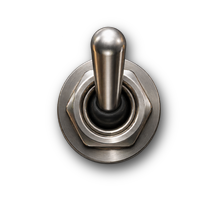
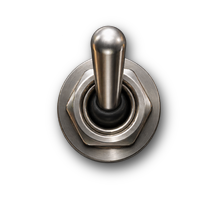
Nouveaux potards et inverseur corrige
- potards remplaces par l'image fournie, a la taille des anciens (colle aux ombres), repere arrondi
- inverseur : ecrou, rondelle et bague grise fixes entre ON et OFF, seul le levier bascule ; levier bas entier

Claude-Session: https://claude.ai/code/session_01M5BvnJhAUMcJZBMRQuvEEY

diff --git a/tools/design_assets.py b/tools/design_assets.py
@@ -101,36 +101,9 @@ m |= box(1694, 412, 1741, 439)                 # « ON »
 m |= box(1692, 598, 1750, 624)                 # « OFF »
 out = donor_fill(out, m, 652, 684)
 
-# ---- 3. repere des potards (et son sillon) retire : le chapeau en metal tourne (rayures concentriques, reflets qui ne
-#         varient que doucement avec l'angle) est refait en coordonnees polaires, par interpolation en angle a rayon constant
+# ---- 3. potards : ceux de la maquette sont remplaces par assets/design/knob_src.png (etape 6d) ; la plaque est refaite dessous (6c)
 KN = [(331.5, 531), (547.2, 531), (760.7, 531), (974.5, 531), (1187.7, 531), (1402.4, 531)]
 yy, xx = np.mgrid[0:H, 0:W].astype(np.float32)
-for cx, cy in KN:
-    mask = nd.binary_dilation(box(cx - 13, 461, cx + 13, 510), iterations=2)
-    NR, NT = int(68 * k), 1440
-    rr_ = np.linspace(0, 68 * k, NR)[:, None]; tt = np.linspace(-np.pi, np.pi, NT, endpoint=False)[None, :]
-    px_ = cx * k + rr_ * np.sin(tt); py_ = cy * k - rr_ * np.cos(tt)          # theta = 0 en haut
-    pol = np.stack([nd.map_coordinates(out[..., c], [py_, px_], order=1) for c in range(3)], -1)
-    pm = nd.map_coordinates(mask.astype(np.float32), [py_, px_], order=1) > 0.01
-    tix = np.arange(NT)
-    for r in range(NR):
-        m = pm[r]
-        if not m.any() or m.all(): continue
-        good = ~m
-        # interpolation circulaire en angle
-        gx = np.concatenate([tix[good] - NT, tix[good], tix[good] + NT])
-        for c in range(3):
-            gv = np.tile(pol[r, good, c], 3)
-            pol[r, m, c] = np.interp(tix[m], gx, gv)
-    # retour en cartesien pour les pixels du masque
-    ys_, xs_ = np.nonzero(mask)
-    dx_, dy_ = xs_ - cx * k, ys_ - cy * k
-    r_ = np.hypot(dx_, dy_) / (68 * k) * (NR - 1)
-    t_ = (np.arctan2(dx_, -dy_) + np.pi) / (2 * np.pi) * NT
-    inside = r_ < NR - 1
-    for c in range(3):
-        v = nd.map_coordinates(np.concatenate([pol[..., c], pol[:, :1, c]], 1), [r_, t_], order=1, mode="nearest")
-        out[ys_[inside], xs_[inside], c] = v[inside]
 
 # ---- 4. vu-metres : barres eteintes (verre sombre), debord orange retire, voyants d'ecretage eteints
 for x0, x1, win in ((66, 87, (46, 306, 137, 745)), (1916, 1937, (1861, 306, 1952, 745))):
@@ -228,23 +201,25 @@ RR(140, 110, 1695, 305, 14)
 for xb in (1707, 1791, 1874): RR(xb, 165, xb + 76, 241, 8)
 CC(1913, 75, 39)
 RR(46, 306, 137, 745, 12); RR(1861, 306, 1952, 745, 12)
-for cxk in (336, 549, 761, 974, 1187, 1401): CC(cxk, 535, 76)
 CC(1618.4, 531.0, 17)
 RR(1546, 340, 1556, 715, 3)
 fgm = np.asarray(fgi) > 0
 panel = inner & ~fgm
+knobz = np.zeros((H, W), bool)
+for cx_, cy_ in KN: knobz |= np.hypot(xx / k - cx_, yy / k - cy_) < 82     # anciens potards + ombres (les points restent hors zone)
 Lc = out.mean(2)
 T = np.asarray(Image.open(os.path.join(DESIGN, "plate_texture.png")).convert("RGB").resize((W, W), Image.LANCZOS), dtype=np.float32)[:H] / 255.0
 so_ = (out.max(2) - out.min(2)) / np.maximum(out.max(2), 1e-3)
 tophat = Lc - nd.grey_opening(Lc, size=(31, 31))
 zone = box(140, 325, 1850, 665)
-txt = nd.binary_dilation(panel & zone & (tophat > 0.18) & (Lc > 0.35) & (so_ < 0.2), iterations=3) & panel
-base_ = panel & ~txt
+txt = nd.binary_dilation(panel & zone & (tophat > 0.18) & (Lc > 0.35) & (so_ < 0.2), iterations=3) & panel & ~knobz
+base_ = panel & ~txt & ~knobz
 def nblur(v, m, s_):
     return nd.gaussian_filter(v * m, s_) / np.maximum(nd.gaussian_filter(m.astype(np.float32), s_), 1e-4)
 Ls = nblur(Lc, base_, 6.0)
 Mloc = nblur(Lc, base_, 60.0)
 S = np.clip(Ls / np.maximum(Mloc, 1e-3), 0.3, 1.0)          # ombres de contact seulement (aucun ancien reflet)
+S = np.where(knobz, 1.0, S)                                  # sous les anciens potards : texture seule
 newp = np.clip(T * S[..., None], 0, 1)
 oldp = np.stack([nblur(out[..., c], base_, 3.0) for c in range(3)], -1)
 ink = np.array([0.86, 0.86, 0.85], np.float32)
@@ -268,6 +243,51 @@ Z = case & ~panel & (dpan <= 40) & ~btn
 pz = np.exp(-((Lc - Mg) / 0.07) ** 2) * np.clip((0.25 - so_) / 0.15, 0, 1) * np.clip((40 - dpan) / 15, 0, 1)
 pz = nd.gaussian_filter(pz, 2.0) * Z
 out = out * (1 - pz[..., None]) + np.clip(out * gain_[..., None], 0, 1) * pz[..., None]
+
+# ---- 6d. nouveaux potards (image fournie, fond transparent) : repere retire (le plugin le dessine et le fait tourner),
+#          rayon 67 unites, ombre portee (lumiere en haut a gauche) et ombre de contact
+KSRC = Image.open(os.path.join(DESIGN, "knob_src.png")).convert("RGBA")
+ka = np.asarray(KSRC, dtype=np.float32) / 255.0
+KC = (437.0, 417.0); KR = 346.0
+krgb = ka[..., :3].copy(); kal = ka[..., 3].copy()
+kyy, kxx = np.mgrid[0:ka.shape[0], 0:ka.shape[1]].astype(np.float32)
+kal = np.where(np.hypot(kxx - KC[0], kyy - KC[1]) < KR - 6, 1.0, kal)
+# repere retire : interpolation en angle a rayon constant (metal tourne)
+kmask = nd.binary_dilation((np.abs(kxx - KC[0]) < 17) & (kyy > 80) & (kyy < 290), iterations=3)
+NR, NT = int(KR + 4), 1440
+rr_ = np.linspace(0, KR + 4, NR)[:, None]; tt = np.linspace(-np.pi, np.pi, NT, endpoint=False)[None, :]
+px_ = KC[0] + rr_ * np.sin(tt); py_ = KC[1] - rr_ * np.cos(tt)
+pol = np.stack([nd.map_coordinates(krgb[..., c], [py_, px_], order=1) for c in range(3)], -1)
+pm = nd.map_coordinates(kmask.astype(np.float32), [py_, px_], order=1) > 0.01
+tix = np.arange(NT)
+for r in range(NR):
+    m_ = pm[r]
+    if not m_.any() or m_.all(): continue
+    g_ = ~m_; gx = np.concatenate([tix[g_] - NT, tix[g_], tix[g_] + NT])
+    for c in range(3): pol[r, m_, c] = np.interp(tix[m_], gx, np.tile(pol[r, g_, c], 3))
+ys_, xs_ = np.nonzero(kmask)
+r_ = np.hypot(xs_ - KC[0], ys_ - KC[1]) / (KR + 4) * (NR - 1); t_ = (np.arctan2(xs_ - KC[0], -(ys_ - KC[1])) + np.pi) / (2 * np.pi) * NT
+ok_ = r_ < NR - 1
+for c in range(3):
+    v_ = nd.map_coordinates(np.concatenate([pol[..., c], pol[:, :1, c]], 1), [r_, t_], order=1, mode="nearest")
+    krgb[ys_[ok_], xs_[ok_], c] = v_[ok_]
+KNOB_R = 76.0                          # rayon des anciens potards (bague moletee) : colle aux ombres et aux graduations
+sc_ = KNOB_R * k / KR
+kimg = Image.fromarray((np.dstack([krgb, kal]) * 255 + 0.5).astype(np.uint8), "RGBA")
+kimg = kimg.resize((int(round(kimg.size[0] * sc_)), int(round(kimg.size[1] * sc_))), Image.LANCZOS)
+kk = np.asarray(kimg, dtype=np.float32) / 255.0
+kh, kw = kk.shape[:2]
+for cx_, cy_ in KN:
+    x0_ = int(round(cx_ * k - KC[0] * sc_)); y0_ = int(round(cy_ * k - KC[1] * sc_))
+    pad = int(20 * k)
+    A_ = np.zeros((kh + 2 * pad, kw + 2 * pad), np.float32); A_[pad:pad + kh, pad:pad + kw] = kk[..., 3]
+    shadow = nd.shift(nd.gaussian_filter(A_, 6 * k), (6 * k, 3.5 * k), order=1) * 0.70
+    contact = nd.gaussian_filter(A_, 1.8 * k) * 0.45
+    sh_ = np.clip(np.maximum(shadow, contact), 0, 1)
+    reg = out[y0_ - pad:y0_ + kh + pad, x0_ - pad:x0_ + kw + pad]
+    reg *= (1 - sh_[..., None])
+    a3 = kk[..., 3:4]
+    reg[pad:pad + kh, pad:pad + kw] = reg[pad:pad + kh, pad:pad + kw] * (1 - a3) + kk[..., :3] * a3
 
 # ---- 7. logos officiels en blanc
 def svg_alpha(name, h_px):
@@ -309,7 +329,7 @@ sz = (int(round((LEDB[2] - LEDB[0]) * PX)), int(round((LEDB[3] - LEDB[1]) * PX))
 Image.fromarray((rgba * 255 + 0.5).astype(np.uint8), "RGBA").resize(sz, Image.LANCZOS).save(os.path.join(ASSETS, "led_on.png"))
 
 # inverseur : images fournies (fond transparent), rondelle (rayon 665 px) mise au rayon 46 de la maquette, ombre portee
-def toggle(src, washer_c, out_name):
+def toggle_canvas(src, washer_c):
     t = Image.open(os.path.join(DESIGN, src)).convert("RGBA")
     sc = 40.5 * PX / 665.0                    # 25 % plus petit
     t = t.resize((int(t.size[0] * sc), int(t.size[1] * sc)), Image.LANCZOS)
@@ -317,13 +337,143 @@ def toggle(src, washer_c, out_name):
     S_ = int(round(170 * PX))                      # carre de 170 unites de maquette autour de l axe (levier entier)
     canvas = Image.new("RGBA", (S_, S_), (0, 0, 0, 0))
     canvas.alpha_composite(t, (int(round(S_ / 2 - cx)), int(round(S_ / 2 - cy))))
-    a_ = np.asarray(canvas, dtype=np.float32) / 255.0
+    return np.asarray(canvas, dtype=np.float32) / 255.0, sc
+def toggle_save(a_, out_name):
+    # ombre portee calculee sur l'image finale : la rondelle et l'ecrou donnent la meme ombre dans les deux positions,
+    # seule l'ombre du levier suit le levier
     sh = nd.shift(nd.gaussian_filter(a_[..., 3], 4.5 * PX), (4.5 * PX, 2.5 * PX), order=1) * 0.75
     al = a_[..., 3] + sh * (1 - a_[..., 3])
     rgb = a_[..., :3] * a_[..., 3:4] / np.maximum(al[..., None], 1e-4)
     Image.fromarray((np.dstack([rgb, al]) * 255 + 0.5).astype(np.uint8), "RGBA").save(os.path.join(ASSETS, out_name))
-toggle("toggle_on_src.png", (1925.0, 1104.0), "toggle_up.png")
-toggle("toggle_off_src.png", (1921.5, 1069.0), "toggle_down.png")
+# deux photos (levier haut / bas) calees sur la rondelle. Pour que la rondelle et l'ecrou restent fixes, tout ce qui est
+# hors de la bande verticale du levier vient de la meme photo (levier haut) ; seule la bande du levier change.
+up, scT = toggle_canvas("toggle_on_src.png", (1925.7, 1115.8))      # centre de la rondelle (cercle ajuste) + recalage image a image
+dn, _ = toggle_canvas("toggle_off_src.png", (1927.0, 1104.6))
+St = up.shape[0]; c0 = St / 2.0; Rw = 673.0 * scT
+INNER_R = 0.60                                       # rayon (en fraction de la rondelle) en dessous duquel l'interieur vient de la photo levier bas
+dn0 = dn.copy()
+dn = np.stack([nd.shift(dn[..., i], (-1.25, -0.5), order=1) for i in range(4)], -1)
+dn_top = np.stack([nd.shift(dn0[..., i], (0.5, -0.25), order=1) for i in range(4)], -1)   # pan superieur : recalage propre (perspective)   # recalage fin sur les bagues basses de l ecrou (mesure)
+tyy, txx = np.mgrid[0:St, 0:St].astype(np.float32)
+tr = np.hypot(txx - c0, tyy - c0)
+bandw = np.clip((275 * scT - np.abs(txx - c0)) / (30 * scT), 0, 1)                   # bande du levier
+upper = tyy < c0 + 2
+# position basse = photo levier haut (rondelle, ecrou, ombre fixes) dont on retire le levier haut :
+down = up.copy()
+# 1) au-dessus de la rondelle : le levier haut disparait
+out_up = upper & (tr > Rw + 2.5) & (bandw > 0)
+down[out_up, 3] *= (1 - bandw[out_up])
+# 2) couronne de la rondelle sous le levier haut : refaite en tournant autour de l'axe (interpolation en angle)
+ring = upper & (tr >= 0.80 * Rw) & (tr <= Rw + 2.5) & (bandw > 0)
+NRt, NTt = int(Rw + 5), 1440
+rr_t = np.linspace(0, Rw + 5, NRt)[:, None]; tt_t = np.linspace(-np.pi, np.pi, NTt, endpoint=False)[None, :]
+pxt = c0 + rr_t * np.sin(tt_t); pyt = c0 - rr_t * np.cos(tt_t)
+polt = np.stack([nd.map_coordinates(up[..., i], [pyt, pxt], order=1) for i in range(4)], -1)
+pmt = nd.map_coordinates(nd.binary_dilation(ring, iterations=2).astype(np.float32), [pyt, pxt], order=1) > 0.01
+tixt = np.arange(NTt)
+for r in range(NRt):
+    mm = pmt[r]
+    if not mm.any() or mm.all(): continue
+    gg = ~mm; gxx = np.concatenate([tixt[gg] - NTt, tixt[gg], tixt[gg] + NTt])
+    for i in range(4): polt[r, mm, i] = np.interp(tixt[mm], gxx, np.tile(polt[r, gg, i], 3))
+ys_, xs_ = np.nonzero(ring)
+rq = tr[ys_, xs_] / (Rw + 5) * (NRt - 1); tq = (np.arctan2(xs_ - c0, -(ys_ - c0)) + np.pi) / (2 * np.pi) * NTt
+for i in range(4):
+    v_ = nd.map_coordinates(np.concatenate([polt[..., i], polt[:, :1, i]], 1), [rq, tq], order=1, mode="nearest")
+    down[ys_, xs_, i] = v_
+# 3) ecrou et canon (au centre) et tout le levier bas : photo levier bas, calee sur l'ecrou
+# seul le levier bas (et le canon central qui s'incline) vient de la photo levier bas : il est detecte comme ce qui differe
+# de la photo levier haut dans la moitie basse ; l'ecrou, la rondelle et leurs reflets restent ceux de la photo levier haut
+diff = np.abs(dn[..., :3] - up[..., :3]).max(2) * np.maximum(dn[..., 3], up[..., 3])
+lever = nd.binary_opening(diff > 0.10, iterations=1) & (bandw > 0) & ~upper
+lab_, n_ = nd.label(lever)
+if n_:
+    sizes = nd.sum(lever, lab_, range(1, n_ + 1)); lever = lab_ == (1 + int(np.argmax(sizes)))
+lever = nd.binary_fill_holes(nd.binary_closing(lever, iterations=3))
+lever |= ~upper & (tr > Rw + 2.5) & (bandw > 0)                      # levier hors de la rondelle
+take = np.clip(nd.gaussian_filter(nd.binary_dilation(lever, iterations=2).astype(np.float32), 1.0), 0, 1)
+take = np.maximum(take, np.clip((0.30 * Rw - tr) / (0.06 * Rw), 0, 1))  # canon et soufflet au centre
+down = down * (1 - take[..., None]) + dn * take[..., None]
+# moitie haute de l'ecrou, cachee par le levier haut :
+#  - couronne exterieure (pan de l'hexagone, bagues larges) : ecrou de la photo levier haut, refait en tournant autour de
+#    l'axe (interpolation en angle a rayon constant) -> raccord parfait avec le reste de l'ecrou fixe
+#  - interieur (bague fine + soufflet) : photo levier bas, ou cette zone est visible telle quelle
+hw = 195 * scT
+NRh, NTh = int(0.85 * Rw) + 2, 720
+rrh = np.linspace(0, 0.85 * Rw, NRh)[:, None]; tth = np.linspace(-np.pi, np.pi, NTh, endpoint=False)[None, :]
+pxh = c0 + rrh * np.sin(tth); pyh = c0 - rrh * np.cos(tth)
+polh = np.stack([nd.map_coordinates(up[..., i], [pyh, pxh], order=1) for i in range(4)], -1)
+pmh = nd.map_coordinates(nd.binary_dilation(upper & (np.abs(txx - c0) < hw), iterations=1).astype(np.float32), [pyh, pxh], order=1) > 0.01
+tixh = np.arange(NTh)
+for r in range(NRh):
+    mm = pmh[r]
+    if not mm.any() or mm.all(): continue
+    gg = ~mm; gxx = np.concatenate([tixh[gg] - NTh, tixh[gg], tixh[gg] + NTh])
+    for i in range(4): polh[r, mm, i] = np.interp(tixh[mm], gxx, np.tile(polh[r, gg, i], 3))
+rot = up.copy()
+outer = upper & (np.abs(txx - c0) < hw) & (tr < 0.81 * Rw)
+# pan superieur de l'hexagone : photo levier bas (ou il est visible), raccordee sans couture a l'ecrou de la photo levier
+# haut : on lui ajoute, ligne par ligne, l'ecart up - dn mesure juste a gauche et a droite du levier (collage sans raccord)
+xl_, xr_ = int(np.floor(c0 - hw)) - 1, int(np.ceil(c0 + hw)) + 1
+for y in np.nonzero(outer.any(1))[0]:
+    xs_h = np.nonzero(outer[y])[0]
+    dl = (up[y, xl_ - 2:xl_ + 1] - dn_top[y, xl_ - 2:xl_ + 1]).mean(0)
+    dr = (up[y, xr_:xr_ + 3] - dn_top[y, xr_:xr_ + 3]).mean(0)
+    t_ = (xs_h - xl_) / (xr_ - xl_)
+    rot[y, xs_h] = dn_top[y, xs_h] + dl[None] * (1 - t_[:, None]) + dr[None] * t_[:, None]
+rot[..., :3] = np.clip(rot[..., :3], 0, 1); rot[..., 3] = 1.0
+RI = INNER_R * Rw
+inner_w = np.clip((RI - tr) / (0.04 * Rw), 0, 1)                    # interieur : photo levier bas
+w_out = nd.gaussian_filter(outer.astype(np.float32), 0.7) * (1 - inner_w)
+w_in = inner_w                                                      # disque interieur entier : bague fine et soufflet coherents
+down = down * (1 - w_out[..., None]) + rot * w_out[..., None]
+down = down * (1 - w_in[..., None]) + dn * w_in[..., None]
+# bague grise interieure : elle doit rester EXACTEMENT la meme dans les deux positions (piece fixe). L'interieur de l'ecrou
+# en position basse est donc reconstruit ainsi :
+#  1) bague et ecrou : photo levier haut ; la partie haute cachee par le levier haut est refaite en tournant autour de
+#     l'axe (interpolation en angle a rayon constant : la bague est ronde)
+#  2) trou du soufflet : photo levier bas, mise a l'echelle radiale pour que son bord (318) tombe sur celui de la photo
+#     levier haut (264)
+#  3) levier bas : photo levier bas, pose par-dessus (masque du levier mesure : metal clair dans l'axe, moitie basse)
+RIN = 470 * scT                                                   # rayon de la zone interieure refaite (dans l'ecrou)
+ang = np.arctan2(txx - c0, -(tyy - c0))
+NRb, NTb = int(RIN) + 3, 1440
+rrb = np.linspace(0, RIN + 2, NRb)[:, None]; ttb = np.linspace(-np.pi, np.pi, NTb, endpoint=False)[None, :]
+pxb = c0 + rrb * np.sin(ttb); pyb = c0 - rrb * np.cos(ttb)
+polb = np.stack([nd.map_coordinates(up[..., i], [pyb, pxb], order=1) for i in range(4)], -1)
+hid = (upper & (np.abs(txx - c0) < 205 * scT)).astype(np.float32)          # levier haut sur la photo levier haut
+pmb = nd.map_coordinates(nd.binary_dilation(hid > 0, iterations=1).astype(np.float32), [pyb, pxb], order=1) > 0.01
+tixb = np.arange(NTb)
+for r in range(NRb):
+    mm = pmb[r]
+    if not mm.any() or mm.all(): continue
+    gg = ~mm; gxx = np.concatenate([tixb[gg] - NTb, tixb[gg], tixb[gg] + NTb])
+    for i in range(4): polb[r, mm, i] = np.interp(tixb[mm], gxx, np.tile(polb[r, gg, i], 3))
+ringimg = up.copy()
+zin = tr < RIN
+ysb, xsb = np.nonzero(zin)
+rqb = tr[ysb, xsb] / (RIN + 2) * (NRb - 1); tqb = (ang[ysb, xsb] + np.pi) / (2 * np.pi) * NTb
+for i in range(4):
+    ringimg[ysb, xsb, i] = nd.map_coordinates(np.concatenate([polb[..., i], polb[:, :1, i]], 1), [rqb, tqb], order=1, mode="nearest")
+# 2) trou du soufflet, photo levier bas mise a l'echelle (bord 318 -> 264)
+RH_U, RH_D = 262.0 * scT, 314.0 * scT
+rd_ = tr * (RH_D / RH_U)
+holeimg = np.stack([nd.map_coordinates(dn[..., i], [c0 - rd_ * np.cos(ang), c0 + rd_ * np.sin(ang)], order=1) for i in range(4)], -1)
+wh_ = np.clip((RH_U - 40 * scT - tr) / (30 * scT), 0, 1)[..., None]   # bord du trou = celui de la photo levier haut (bague identique)
+inner = ringimg * (1 - wh_) + holeimg * wh_
+# 3) levier bas : secteur du bas (autour du levier) pris tel quel sur la photo levier bas (levier entier, sans couture ni
+#    deformation) ; sur les cotes et en haut, bague et ecrou de la photo levier haut -> bague identique la ou elle se voit
+dang = np.abs(np.angle(np.exp(1j * (ang - np.pi))))                 # ecart angulaire avec le bas
+sector = np.clip((np.radians(34) - dang) / np.radians(8), 0, 1) * (tyy > c0 - 1)
+# pres du pivot le levier depasse le secteur : bande verticale de la largeur du levier (17 px de demi-largeur a la
+# rondelle, mesure) pour que ses bords dores restent entiers jusqu'au soufflet
+band_l = np.clip((19.5 - np.abs(txx - c0)) / 1.5, 0, 1) * np.clip((tyy - (c0 - 6)) / 2.0, 0, 1)
+wl_ = np.maximum(sector, band_l)[..., None]
+inner = inner * (1 - wl_) + dn * wl_
+wi = np.clip((RIN - tr) / (8 * scT), 0, 1)[..., None]
+down = down * (1 - wi) + inner * wi
+toggle_save(up, "toggle_up.png")
+toggle_save(down, "toggle_down.png")
 
 # visibilite du reflet de chaque LED des vu-metres (profil releve sur la maquette, irregularite fixe) -> PluginEditor.cpp
 pr = np.load(os.path.join(DESIGN, "refl_profile.npy"))

diff --git a/PluginEditor.cpp b/PluginEditor.cpp
@@ -65,7 +65,7 @@ namespace
 
     const float kKnobX[6] = { D (331.5f), D (547.2f), D (760.7f), D (974.5f), D (1187.7f), D (1402.4f) };
     const float kKnobY = D (531.0f);
-    const float kIndR0 = D (29.0f), kIndR1 = D (61.0f), kIndW = D (5.0f);     // repere blanc des potards
+    const float kIndR0 = D (31.6f), kIndR1 = D (71.8f), kIndW = D (4.4f);    // repere blanc arrondi (image du potard fournie)
     const float kValueBase = D (412.2f);                                       // valeur au-dessus du potard
     const juce::Point<float> kJewel (D (1618.4f), D (531.0f));             // voyant et inverseur sur l'axe des potards
     const juce::Rectangle<float> rLedSprite = R (1570, 482.5f, 1667, 579.5f);
@@ -189,12 +189,19 @@ public:
         const float sn = std::sin (ang), cs = std::cos (ang);
         const juce::Point<float> p0 (c.x + sn * kIndR0, c.y - cs * kIndR0), p1 (c.x + sn * kIndR1, c.y - cs * kIndR1);
         const float a = dimmed ? 0.35f : 1.0f;
-        g.setColour (juce::Colours::black.withAlpha (0.45f * a));
-        g.drawLine (p0.x + 0.5f, p0.y + 0.7f, p1.x + 0.5f, p1.y + 0.7f, kIndW + 0.8f);
-        g.setColour (juce::Colours::white.withAlpha (0.18f * a));
-        g.drawLine (p0.x, p0.y, p1.x, p1.y, kIndW + 1.6f);
-        g.setColour (juce::Colour (0xfff6f6f3).withAlpha (a));
-        g.drawLine (p0.x, p0.y, p1.x, p1.y, kIndW);
+        auto bar = [&] (juce::Point<float> q0, juce::Point<float> q1, float w)
+        {
+            juce::Path pth; pth.startNewSubPath (q0); pth.lineTo (q1);
+            juce::Path out; juce::PathStrokeType (w, juce::PathStrokeType::curved, juce::PathStrokeType::rounded).createStrokedPath (out, pth);
+            return out;
+        };
+        const juce::Point<float> sh (0.35f, 0.5f);
+        g.setColour (juce::Colours::black.withAlpha (0.55f * a));
+        g.fillPath (bar (p0 + sh, p1 + sh, kIndW + 0.5f));
+        g.setColour (juce::Colour (0xffe9e9e7).withAlpha (a));
+        g.fillPath (bar (p0, p1, kIndW));
+        g.setColour (juce::Colours::white.withAlpha (0.55f * a));
+        g.fillPath (bar (p0 + juce::Point<float> (-0.15f, -0.15f), p1 + juce::Point<float> (-0.15f, -0.15f), kIndW * 0.45f));
         if (LearnBlink::shown (proc, learnIdx)) LearnBlink::draw (g, getLocalBounds().toFloat().reduced (2.0f), 12.0f);
     }
     void mouseDown (const juce::MouseEvent& e) override

diff --git a/tools/AmpireTool.cpp b/tools/AmpireTool.cpp
@@ -34,6 +34,7 @@ int main (int argc, char** argv)
             for (int i = 0; i < 256; ++i) { const float v = 0.3f * std::sin ((float) (k * 256 + i) * 0.05f); buf.setSample (0, i, v); buf.setSample (1, i, v); }
             proc.processBlock (buf, mb);
         }
+        if (arg (9) == "0") setP (proc, "active", 0.0f);     // rendu POWER OFF
         std::unique_ptr<juce::AudioProcessorEditor> ed (proc.createEditor());
         if (arg (8) == "1") if (auto* ae = dynamic_cast<AmpireEditor*> (ed.get())) ae->openLibrary (0);
         // signal entretenu pendant l'affichage : vu-metres allumes sur la capture
